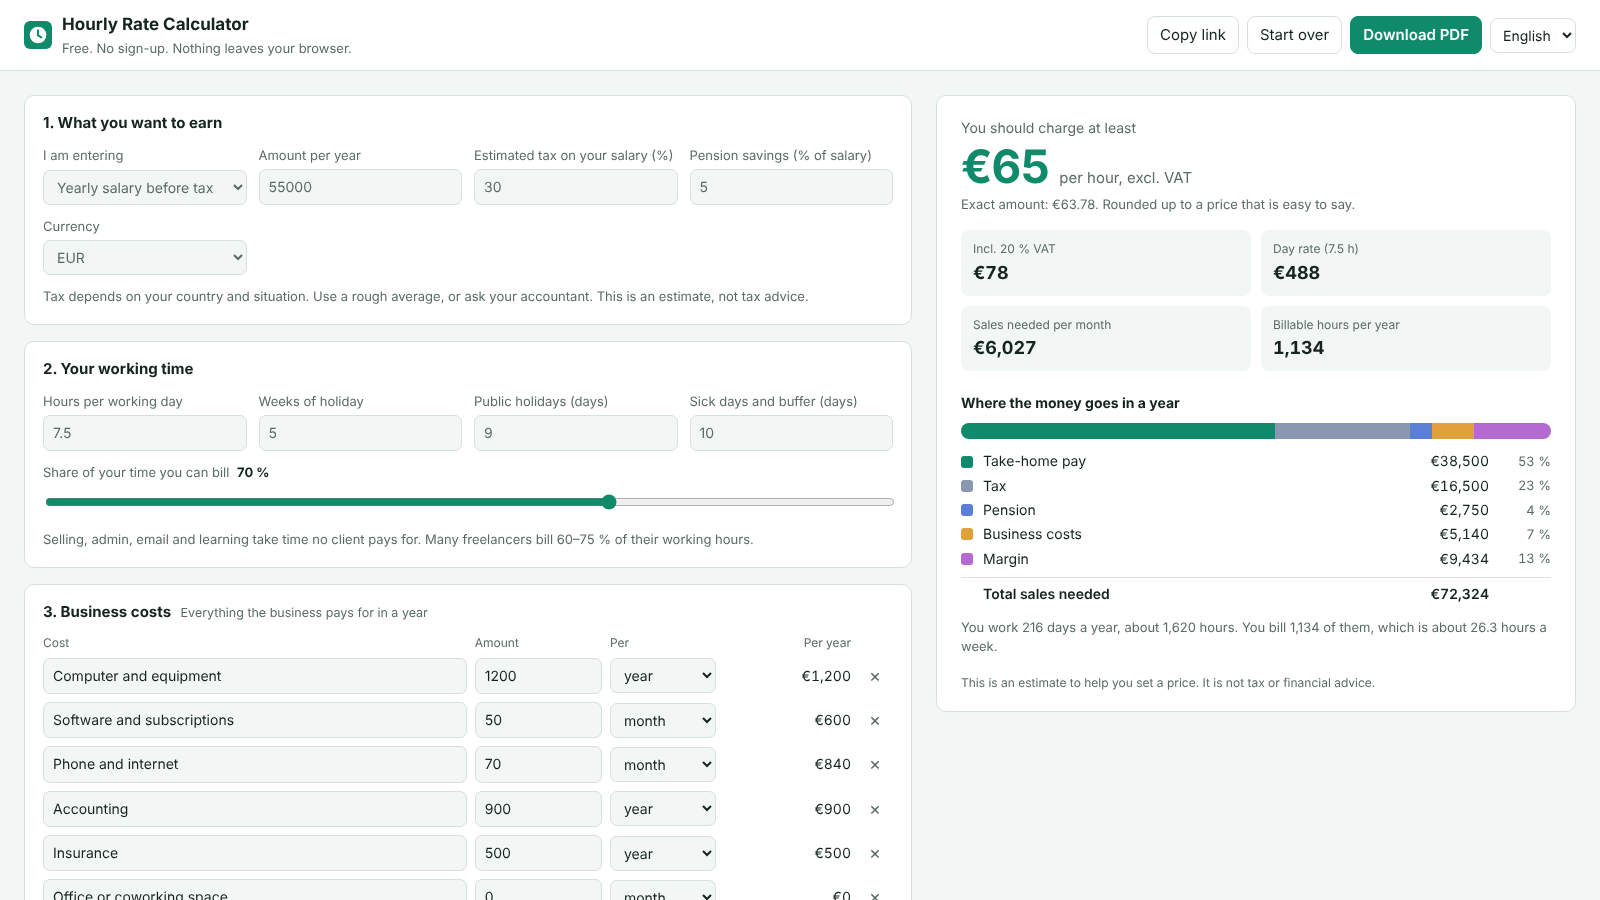
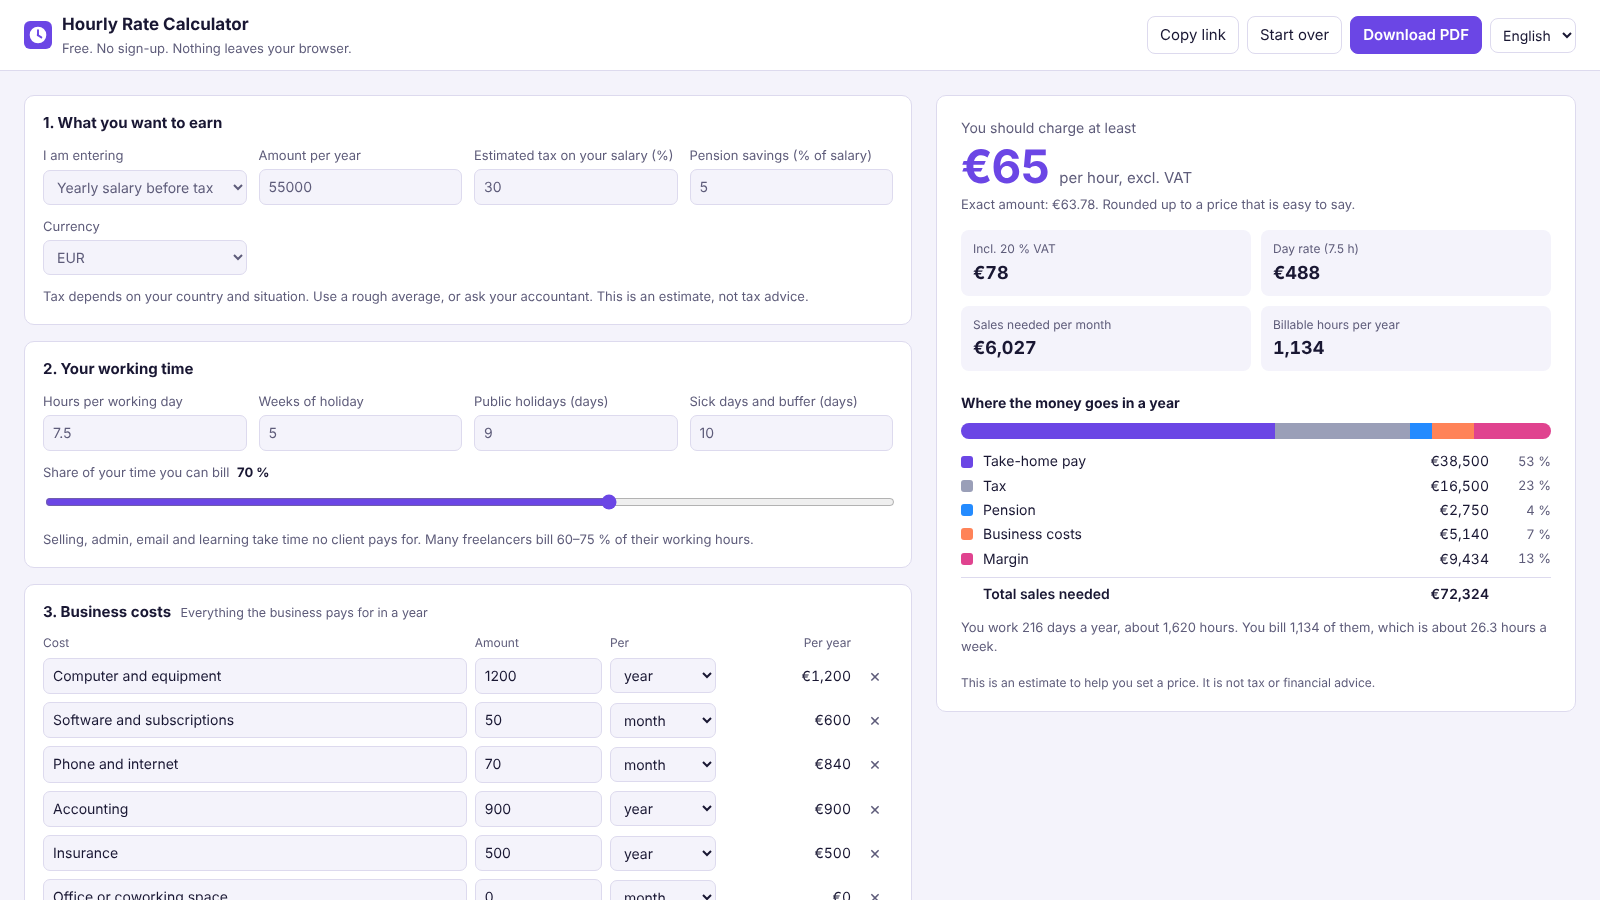
Use Kodeby violet and night blue instead of green
Claude-Session: https://claude.ai/code/session_01Deo7QMpTcS2pDPRvwcVTca

diff --git a/styles.css b/styles.css
@@ -1,42 +1,42 @@
 :root {
-  --bg: #f2f6f5;
+  --bg: #f4f3fb;
   --surface: #ffffff;
-  --text: #15241f;
-  --muted: #5a6b66;
-  --border: #d6e0dd;
-  --accent: #0f8a6a;
+  --text: #191733;
+  --muted: #5e5c7a;
+  --border: #dddaee;
+  --accent: #6b46e5;
   --accent-text: #ffffff;
-  --accent-soft: #e2f4ee;
+  --accent-soft: #eee9ff;
   --danger: #c53030;
-  --warn: #9a5b00;
-  --warn-soft: #fff3dc;
-  --c-takeHome: #0f8a6a;
-  --c-tax: #8a97b0;
-  --c-pension: #5b7fd6;
-  --c-costs: #e0a03a;
-  --c-margin: #b46ad1;
+  --warn: #9a4a12;
+  --warn-soft: #fff0e6;
+  --c-takeHome: #6b46e5;
+  --c-tax: #9a9fb8;
+  --c-pension: #248bff;
+  --c-costs: #ff8358;
+  --c-margin: #e0438f;
   --radius: 10px;
   font-family: system-ui, -apple-system, "Segoe UI", Roboto, sans-serif;
 }
 
 @media (prefers-color-scheme: dark) {
   :root {
-    --bg: #0c1614;
-    --surface: #13211e;
-    --text: #e3eeea;
-    --muted: #93a8a1;
-    --border: #263833;
-    --accent: #3fcf9f;
-    --accent-text: #0c1614;
-    --accent-soft: #173a30;
+    --bg: #070e1f;
+    --surface: #0e1830;
+    --text: #eef1ff;
+    --muted: #9ea8cf;
+    --border: #22305a;
+    --accent: #9d82ff;
+    --accent-text: #0a0f22;
+    --accent-soft: #241d4d;
     --danger: #ff7b7b;
-    --warn: #ffc56b;
-    --warn-soft: #3a2c12;
-    --c-takeHome: #3fcf9f;
-    --c-tax: #6e7b94;
-    --c-pension: #7c9cf0;
-    --c-costs: #f0b552;
-    --c-margin: #c98be0;
+    --warn: #ffb68f;
+    --warn-soft: #33201c;
+    --c-takeHome: #9d82ff;
+    --c-tax: #5d6789;
+    --c-pension: #3d9bff;
+    --c-costs: #ff8358;
+    --c-margin: #f24da1;
   }
 }
 
@@ -228,7 +228,7 @@ input:focus, select:focus { outline: 2px solid var(--accent); outline-offset: -1
 @page { size: A4; margin: 18mm; }
 
 @media print {
-  :root { --bg: #f3f6f5; --surface: #fff; --text: #15241f; --muted: #5a6b66; --border: #d6e0dd; --accent: #0f8a6a; --accent-soft: #e2f4ee; --warn-soft: #fff3dc; --warn: #9a5b00; }
+  :root { --bg: #f4f3fb; --surface: #fff; --text: #191733; --muted: #5e5c7a; --border: #dddaee; --accent: #6b46e5; --accent-soft: #eee9ff; --warn-soft: #fff0e6; --warn: #9a4a12; --c-takeHome: #6b46e5; --c-tax: #9a9fb8; --c-pension: #248bff; --c-costs: #ff8358; --c-margin: #e0438f; }
   body { background: #fff; }
   .no-print { display: none !important; }
   .print-only { display: block; }
